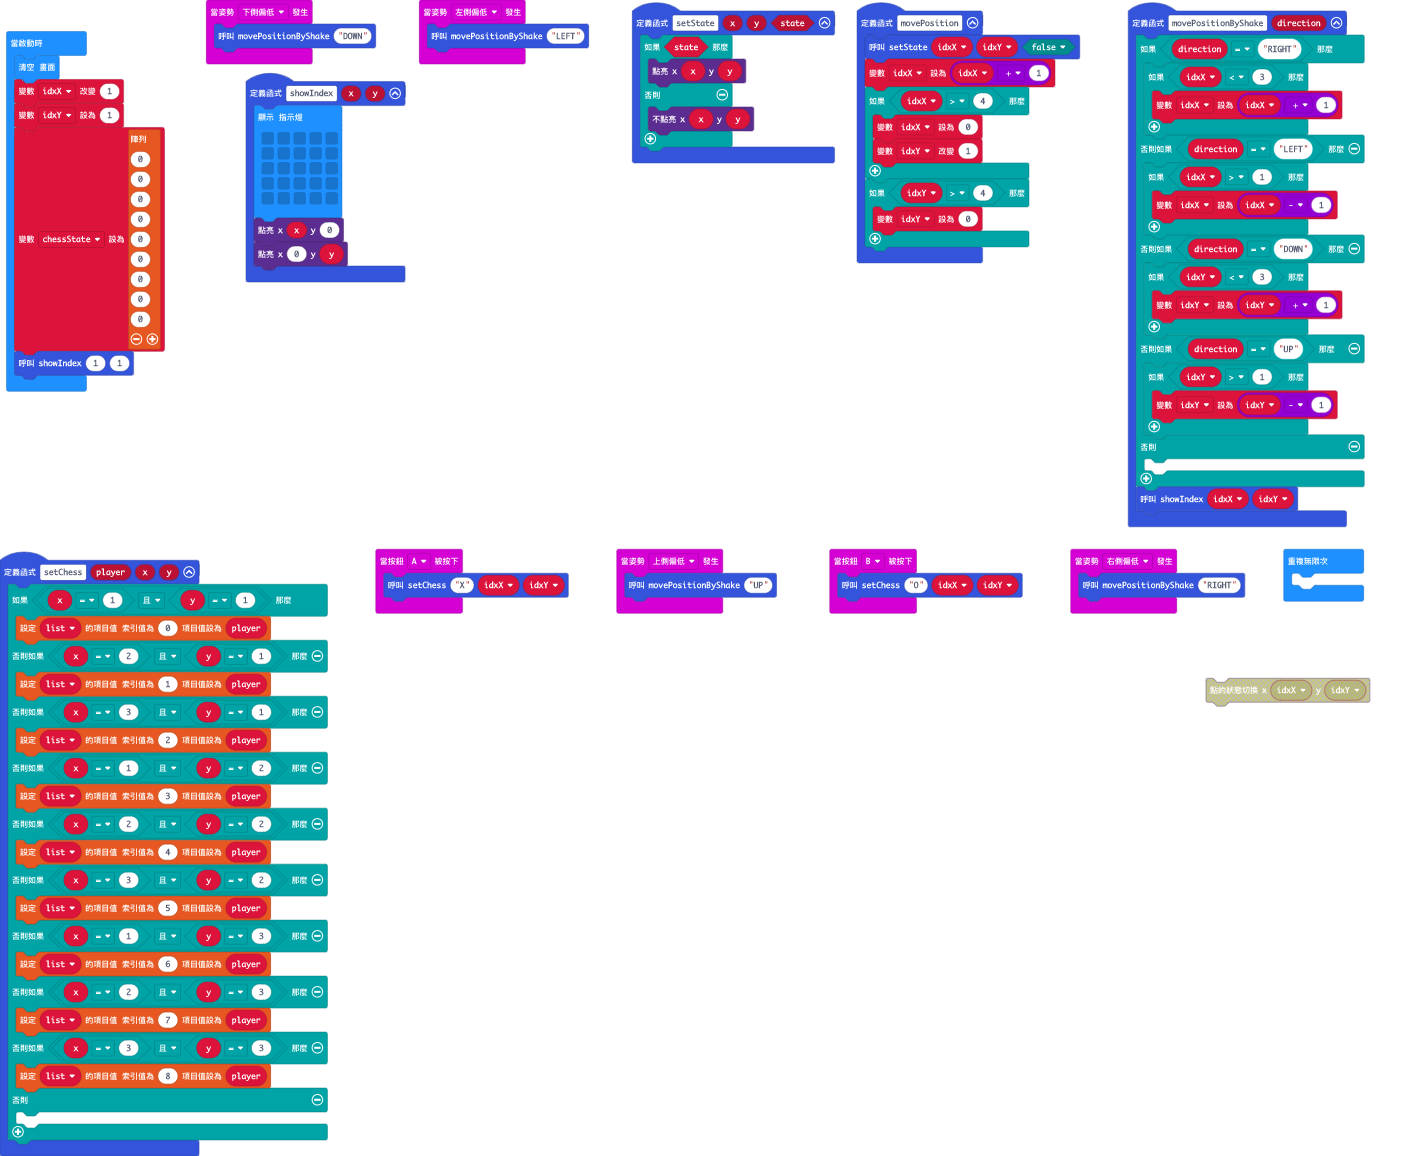
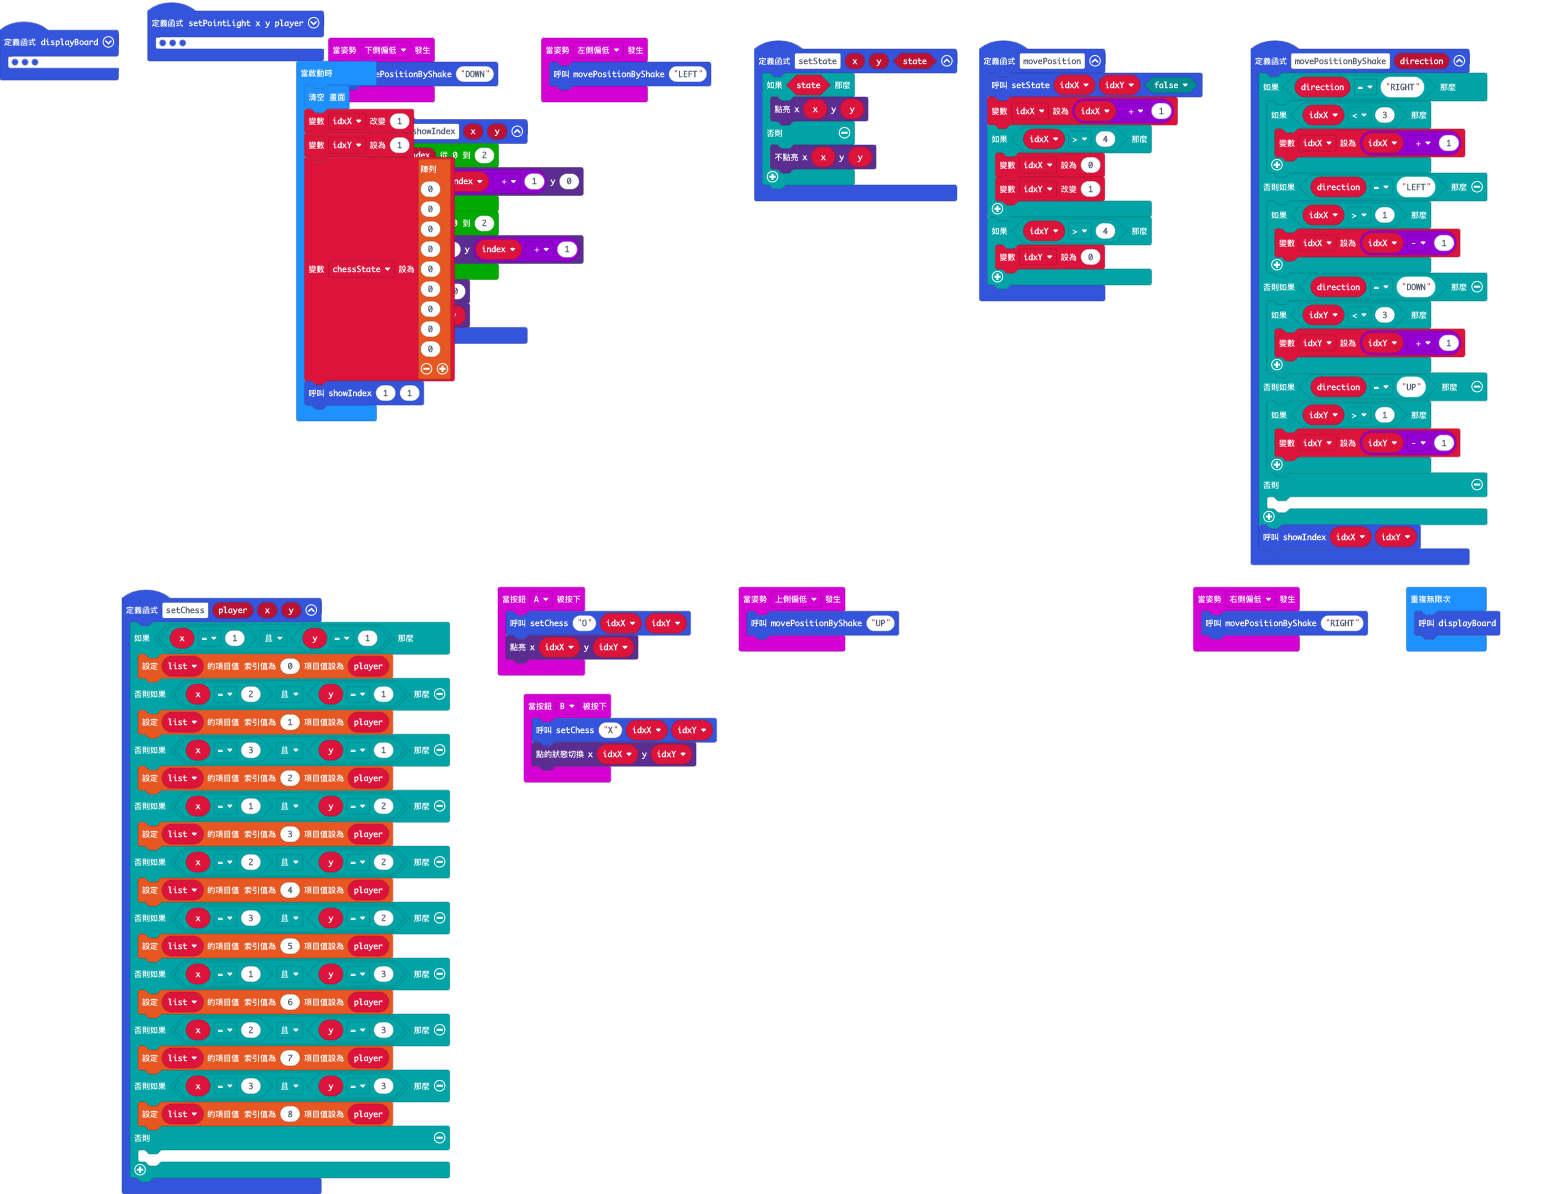
第一版釋出

diff --git a/main.ts b/main.ts
@@ -1,6 +1,17 @@
 input.onGesture(Gesture.LogoUp, function () {
     movePositionByShake("DOWN")
 })
+function displayBoard () {
+    setPointLight(1, 1, list[0])
+    setPointLight(2, 1, list[1])
+    setPointLight(3, 1, list[2])
+    setPointLight(1, 2, list[3])
+    setPointLight(2, 2, list[4])
+    setPointLight(3, 2, list[5])
+    setPointLight(1, 3, list[6])
+    setPointLight(2, 3, list[7])
+    setPointLight(3, 3, list[8])
+}
 input.onGesture(Gesture.TiltLeft, function () {
     movePositionByShake("LEFT")
 })
@@ -45,7 +56,6 @@ function movePositionByShake (direction: string) {
     showIndex(idxX, idxY)
 }
 function setChess (player: string, x: number, y: number) {
-    let list: string[] = []
     if (x == 1 && y == 1) {
         list[0] = player
     } else if (x == 2 && y == 1) {
@@ -69,28 +79,39 @@ function setChess (player: string, x: number, y: number) {
     }
 }
 input.onButtonPressed(Button.A, function () {
-    setChess("X", idxX, idxY)
+    setChess("O", idxX, idxY)
+    led.plot(idxX, idxY)
 })
 input.onGesture(Gesture.LogoDown, function () {
     movePositionByShake("UP")
 })
 input.onButtonPressed(Button.B, function () {
-    setChess("O", idxX, idxY)
+    setChess("X", idxX, idxY)
+    led.toggle(idxX, idxY)
 })
 input.onGesture(Gesture.TiltRight, function () {
     movePositionByShake("RIGHT")
 })
+function setPointLight (x: number, y: number, player: string) {
+    if (player == "O") {
+        led.plot(x, y)
+    } else if (player == "X") {
+        led.toggle(x, y)
+    } else {
+        led.unplot(x, y)
+    }
+}
 function showIndex (x: number, y: number) {
-    basic.showLeds(`
-        . . . . .
-        . . . . .
-        . . . . .
-        . . . . .
-        . . . . .
-        `)
+    for (let index = 0; index <= 2; index++) {
+        led.unplot(index + 1, 0)
+    }
+    for (let index = 0; index <= 2; index++) {
+        led.unplot(0, index + 1)
+    }
     led.plot(x, 0)
     led.plot(0, y)
 }
+let list: string[] = []
 let idxY = 0
 let idxX = 0
 basic.clearScreen()
@@ -99,5 +120,5 @@ idxY = 1
 let chessState = [0, 0, 0, 0, 0, 0, 0, 0, 0]
 showIndex(1, 1)
 basic.forever(function () {
-	
+    displayBoard()
 })
